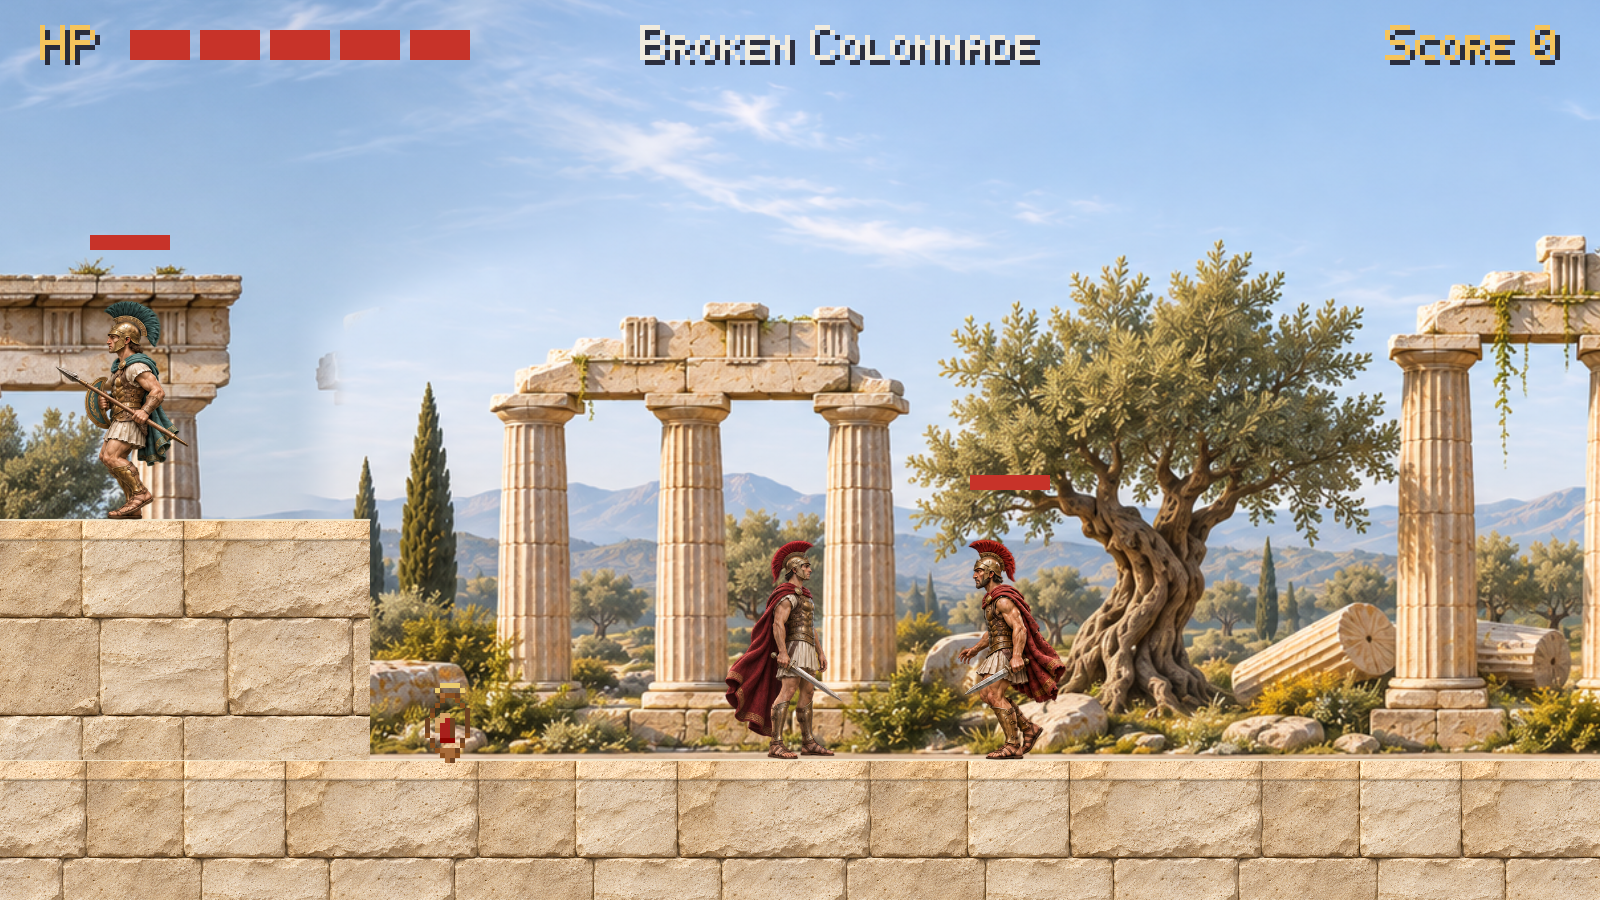
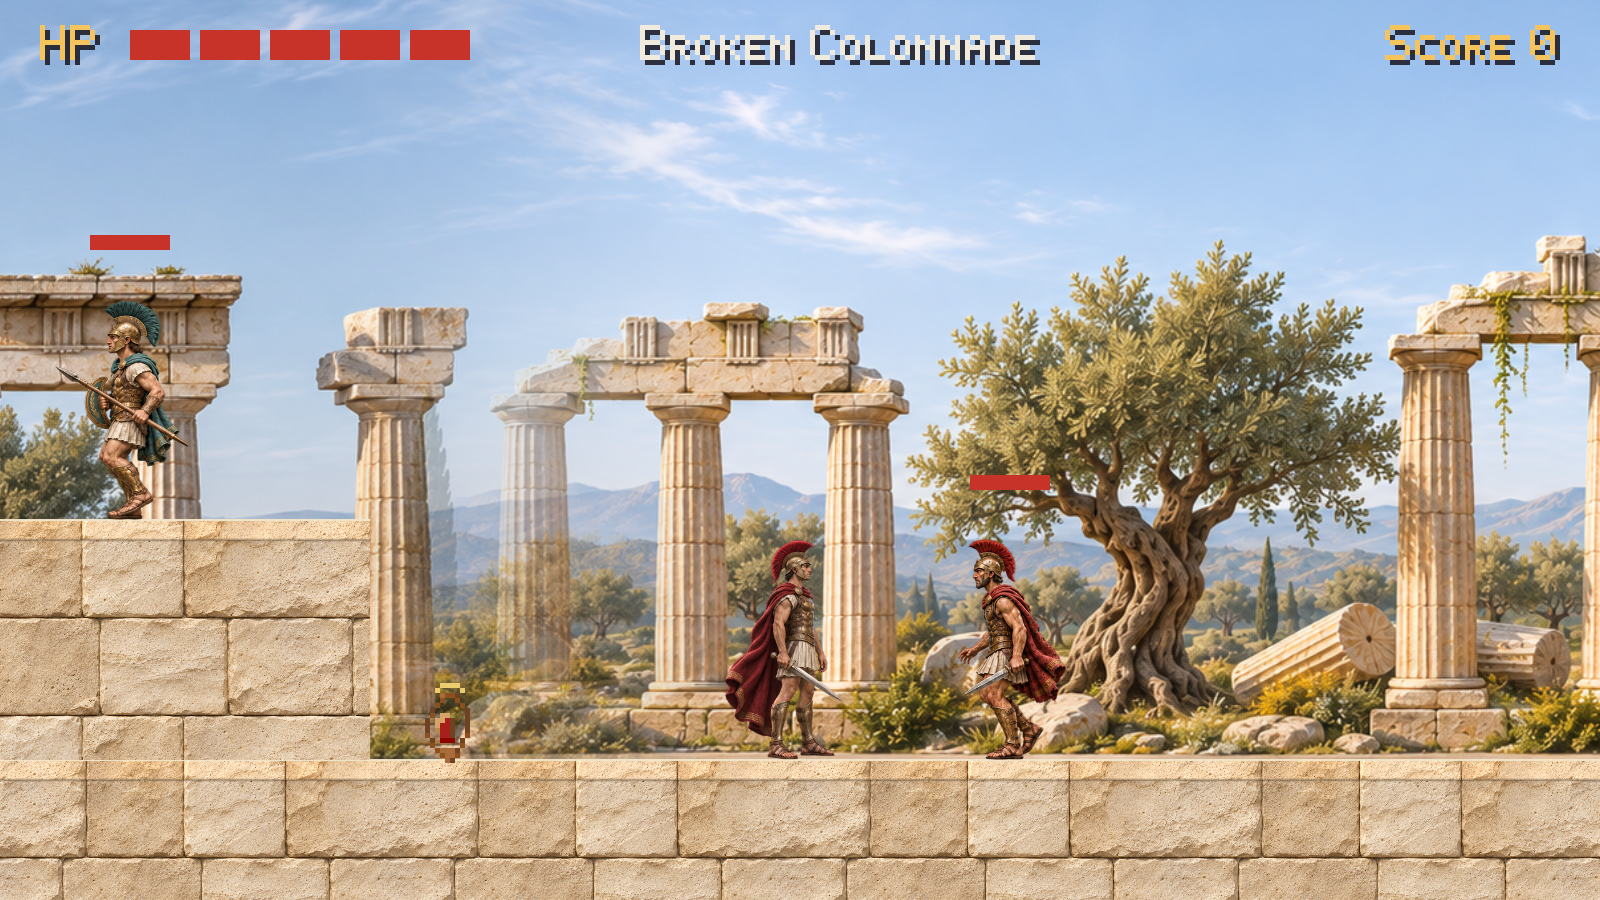
Smooth overlapping background transitions and redraw checkpoints

Changed region(s): [[0.1875, 0.3111, 0.4062, 0.8711]]

diff --git a/README.md b/README.md
@@ -2,6 +2,8 @@
 
 A left-to-right side scroller. Theseus runs the road from Athens to a guarded temple, along a rocky coast, through a sacred city, into cypress-covered mountain terraces, and across a rocky gorge lined with ancient temples. Theseus, Raiders, Peltasts, Hoplites, Spartoi, Telchines, Stymphalian Birds, and the scenery in all five levels use detailed cinematic 3D-style artwork. The remaining enemies retain the original retro artwork.
 
+Background panoramas blend across their full overlap. Checkpoint shrines use matching cinematic limestone and bronze, with lit and unlit brazier states.
+
 ## Contents
 
 - [Screenshots](#screenshots)
@@ -100,6 +102,8 @@ To review Theseus, run `godot --path . res://scenes/reviews/theseus_review.tscn`
 To review Cerberus Pups, run `godot --path . res://scenes/reviews/cerberus_pup_review.tscn`, or open that scene and press **F6**. The two hounds run together and take turns making a telegraphed leap. Jump over the attack or interrupt it with a sword hit. Each pup has two health bars; the surviving pup continues to pursue Theseus.
 
 To review the Hydra, run `godot --path . res://scenes/reviews/hydra_review.tscn`, or open that scene and press **F6**. Each of its three heads has two health and a separate hit area. Cut down every head to defeat it; hitting the coiled body does no damage. Jump to reach the higher heads, or counter their telegraphed bites as they dip toward Theseus. Severed heads stay gone, and the survivors continue taking turns attacking.
+
+To check panorama blending and shrine activation, run `godot --path . --script res://tests/scenery_art.gd`. This check uses the renderer.
 
 Start any level at its entrance or at one of its shrines:
 

diff --git a/docs/level_1.md b/docs/level_1.md
@@ -16,6 +16,11 @@ cover the original walkable surfaces; carved waystones and a matching temple
 facade complete the scenery. These are pre-rendered backgrounds in the existing
 2D game, with the same collision rectangles, camera limits, and encounter layout.
 
+Adjacent panoramas blend across their full 96-pixel overlap at every height,
+including rocks, trees, and architecture. Checkpoint shrines use matching
+cinematic limestone-and-bronze artwork, with cold and burning brazier states;
+their trigger areas and saved spawn positions are unchanged.
+
 ## Route and encounter progression
 
 | Area | World X | Purpose | Encounters |

diff --git a/docs/level_2.md b/docs/level_2.md
@@ -25,6 +25,11 @@ stacked vertically. The stone caps, waystones, and temple facade reuse Level 1's
 art; `level_1_temple.gd` keeps its bronze bars synchronized with gate unlocking,
 including paused temple entry. Levels 3–5 have their own cinematic scenery.
 
+Adjacent panoramas blend across their full 96-pixel overlap at every height,
+including rocks, trees, and architecture. Checkpoint shrines use matching
+cinematic limestone-and-bronze artwork, with cold and burning brazier states;
+their trigger areas and saved spawn positions are unchanged.
+
 ## Route
 
 | Area | X range | Route and encounters |

diff --git a/docs/level_4.md b/docs/level_4.md
@@ -22,6 +22,11 @@ All twenty-seven terraces, four recessed spike pits, hazard areas, and unsafe
 Satyr landing markers keep their original geometry and behavior. Bright stone
 caps still identify the walkable lips; the pit beds remain visibly recessed.
 
+Adjacent panoramas blend across their full 96-pixel overlap at every height,
+including rocks, trees, and architecture. Checkpoint shrines use matching
+cinematic limestone-and-bronze artwork, with cold and burning brazier states;
+their trigger areas and saved spawn positions are unchanged.
+
 ## Route
 
 | Area | World X | Route and encounters |

diff --git a/docs/level_3.md b/docs/level_3.md
@@ -19,6 +19,11 @@ route height. Cut-stone masonry covers the original twenty-three terraces,
 with terracotta amphorae at the existing prop positions and a matching temple exit.
 Terrain collisions, encounter positions, and movement remain unchanged.
 
+Adjacent panoramas blend across their full 96-pixel overlap at every height,
+including rocks, trees, and architecture. Checkpoint shrines use matching
+cinematic limestone-and-bronze artwork, with cold and burning brazier states;
+their trigger areas and saved spawn positions are unchanged.
+
 ## Route
 
 | Area | World X | Route and encounters |

diff --git a/docs/level_5.md b/docs/level_5.md
@@ -22,6 +22,11 @@ All eighteen main terraces, both one-way bull ledges, both recessed spike pits,
 and their collision settings are unchanged. The temple remains closed until
 the Hydra's final head falls, and the facade updates during paused entry.
 
+Adjacent panoramas blend across their full 96-pixel overlap at every height,
+including rocks, trees, and architecture. Checkpoint shrines use matching
+cinematic limestone-and-bronze artwork, with cold and burning brazier states;
+their trigger areas and saved spawn positions are unchanged.
+
 ## Route
 
 | Area | World X | Route and encounters |
